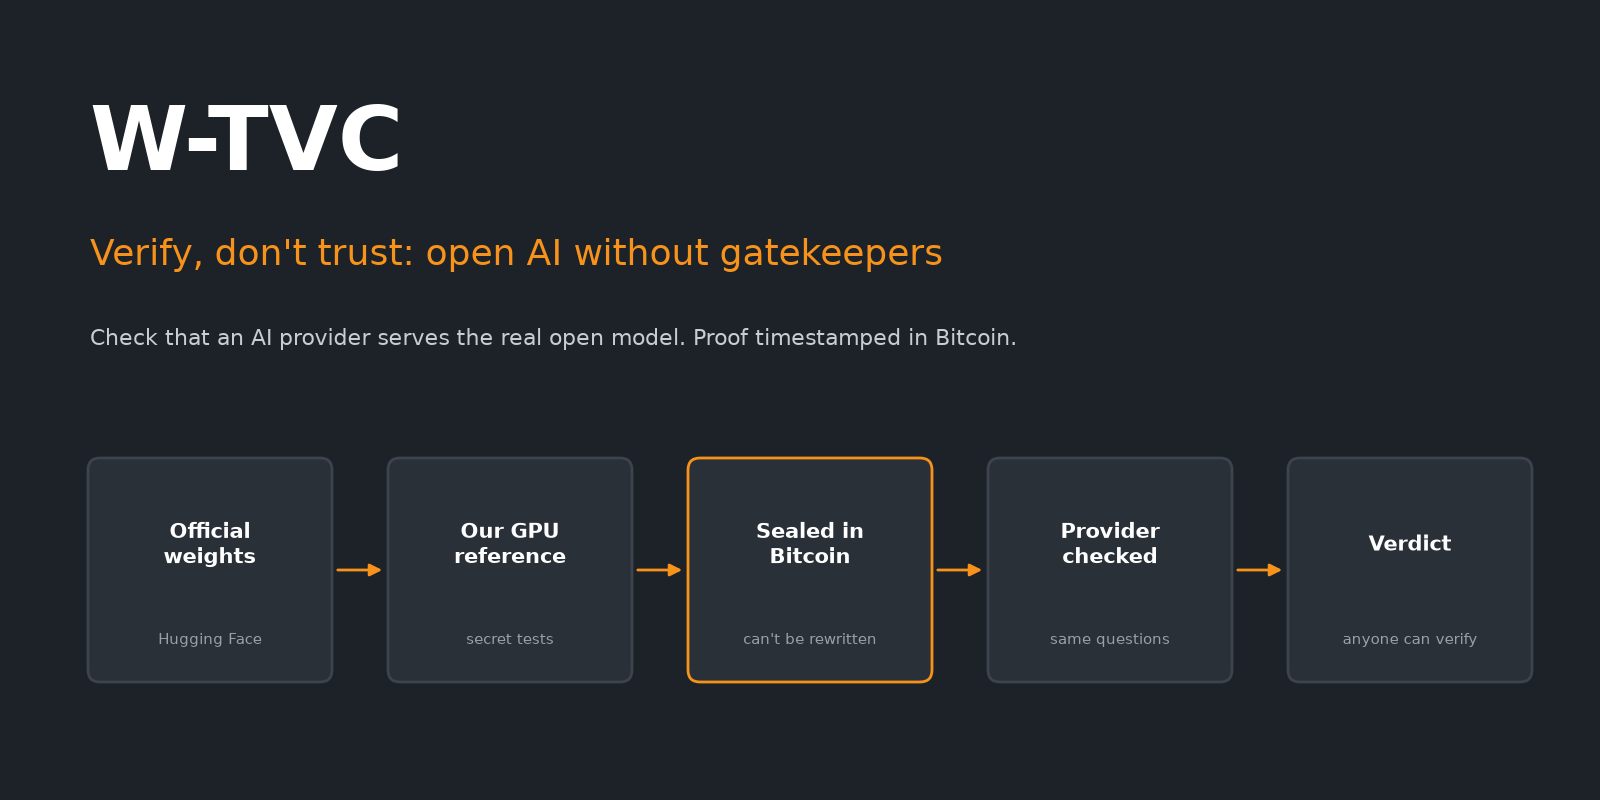
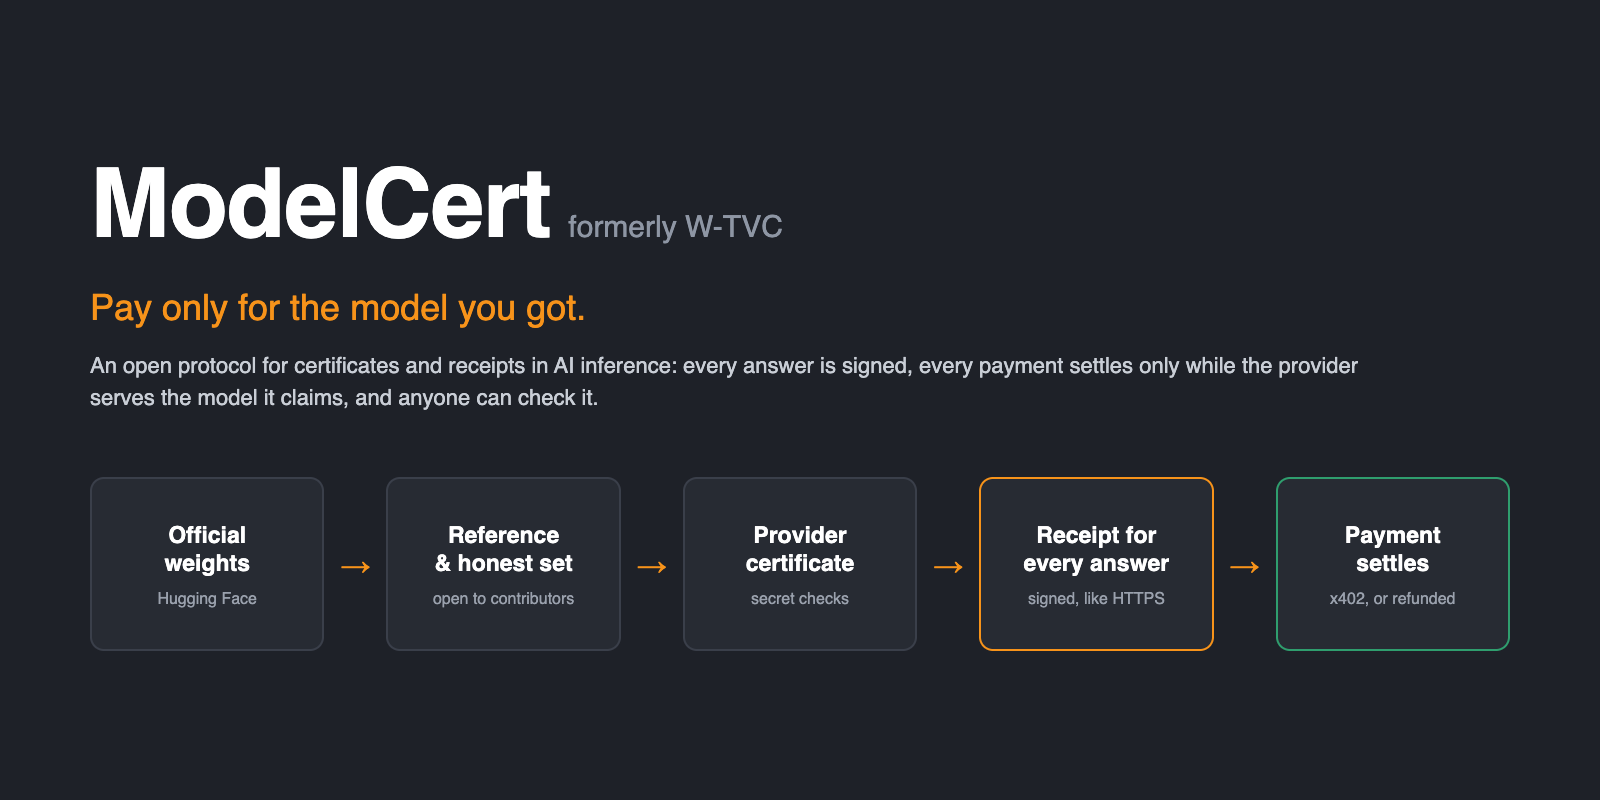
README: ModelCert, certificates, receipts and x402 settlement
The protocol is described as ModelCert: provider certificates, a signed
receipt for every answer, and payments that settle only while the
certificate holds, mapped to HTTPS. New cover, flow diagram and receipt
illustration. Certificates, receipts and settlement are marked as designed,
not built; the code keeps the W-TVC name.

AI: written with Claude Code (Claude Opus 5.5), which wrote effectively all of
this change. Direction and approval from the repository owner.

diff --git a/README.md b/README.md
@@ -1,23 +1,31 @@
-# W-TVC
+# ModelCert
 
-![W-TVC: verify, don't trust](docs/img/cover.png)
+![ModelCert: pay only for the model you got](docs/img/cover.png)
 
-W-TVC is an open protocol for checking that an AI provider serves the open model it sells. A checker runs the official weights, asks secret questions, and compares a provider's answers with the real model's. W-TVC publishes everything needed to trust that verdict without trusting the checker: which weights the reference ran, how it ran them, sealed fingerprints of the secret questions and answers, the honest setups the thresholds come from, and every provider check with its numbers. It's all signed, kept in an append-only ledger and timestamped in Bitcoin.
+ModelCert is an open protocol for paying for AI inference only when you got the model you paid for. It works like HTTPS certificates, for models:
 
-The next step is an **open honest set**. A verdict of "altered" means "outside every honest setup tested", so the more honest setups there are, the fairer the verdict. Anyone with a GPU, including a provider that disputes a verdict, will be able to contribute an honest setup of a model: their engine, GPU and settings. Once someone else reproduces that setup, it widens the threshold for everyone. The design is in [`docs/open-honest-set.md`](docs/open-honest-set.md).
+- **Certificates.** Each provider gets a certificate for each model it serves. It holds while the provider keeps matching the real model on secret test questions mixed into its traffic. A provider that fails is revoked in public.
+- **Receipts.** Every answer comes back with a receipt signed by the gateway. The receipt names the model and the provider that answered, and chains to that provider's certificate.
+- **Settlement.** An agent pays per request over [x402](https://www.x402.org). The payment is held, and it settles only while the provider's certificate holds. If the provider is caught serving anything else, its held payments go back to the buyers.
 
-W-TVC is the protocol behind [authenticated.si](https://authenticated.si) (SPOT).
+Behind every certificate is a public reference: the official weights, sealed test questions, and thresholds set from honest setups of the same model. Anyone can add an honest setup. All of it is signed, kept in an append-only ledger and timestamped in Bitcoin, so anyone can recheck any receipt, certificate or verdict without trusting whoever issued it.
+
+ModelCert was called W-TVC. The code still uses that name: the `tvc` command and the `tvc-core` crate. [authenticated.si](https://authenticated.si) runs SPOT, the first gateway built on it.
 
 **What's real today:**
-- the Qwen2.5-7B reference, its calibrations and two demo verdicts, published here and anchored in Bitcoin blocks 969564 to 969658;
-- GPU references for 14 open models, run in authenticated.si's private harness.
+- the ledger, the reference and calibration documents, and the tools that verify them;
+- the Qwen2.5-7B reference with two demo verdicts, anchored in Bitcoin blocks 969564 to 969658;
+- GPU references for 14 open models in authenticated.si's private harness.
 
-**Not yet:**
-- no real provider has been checked in this ledger;
-- contributions from outside parties aren't built;
-- FP8 detection varies by model.
+**Designed, not built yet:**
+- provider certificates;
+- receipts;
+- x402 settlement;
+- outside contributions to the honest set.
 
-A [10-minute walkthrough](docs/demo-walkthrough.md) runs every check from a fresh clone.
+No real provider has been checked in this ledger.
+
+A [10-minute walkthrough](docs/demo-walkthrough.md) runs every existing check from a fresh clone.
 
 ## Why this matters
 
@@ -27,8 +35,9 @@ Bitcoin removed the need to trust a bank to move money. Anyone can check the rul
 
 A few frontier labs decide which questions their models answer, and they see everything you send. Open models are the way out: anyone can run them, many independent providers host them, and you can switch whenever you like. But an open model is only as trustworthy as whoever serves it. On a marketplace like OpenRouter, a provider can sell you "DeepSeek" and serve a cheaper compressed copy, or a different model, and you can't tell.
 
-W-TVC builds that trust the Bitcoin way:
-- **Verify, don't trust.** Providers are checked against the real model, so you can pick accountable ones.
+ModelCert builds that trust the Bitcoin way:
+- **Pay for proof.** Payments settle only for answers from providers that match the real model.
+- **Verify, don't trust.** Every answer has a receipt you can recheck.
 - **No new gatekeeper.** Every reference, threshold and verdict is signed and published, so anyone can check the checker.
 - **Secret tests, public proof.** The questions stay secret so providers can't game them, but their fingerprints are fixed in public before any provider is tested.
 - **An open definition of "honest".** The setups that decide what counts as normal come from many independent GPUs, not only the checker's.
@@ -46,9 +55,48 @@ The way to catch this from outside is to compare the endpoint with reference ans
 4. Did you change your reference after you saw my output?
 5. My setup is honest but different from yours. Why should your setups define "normal"?
 
-W-TVC answers the first four with things a third party can recompute. The open honest set is the answer to the fifth.
+ModelCert answers the first four with things a third party can recompute. The open honest set is the answer to the fifth. And for buyers the answer arrives with every request: a receipt, and a payment that settles only if the provider holds up.
 
-## How a check works
+## How it works
+
+![How ModelCert works](docs/img/protocol-flow.png)
+
+```mermaid
+sequenceDiagram
+  participant A as Your agent
+  participant G as Gateway (SPOT)
+  participant P as Provider
+  participant L as Public ledger
+  A->>G: request
+  G-->>A: 402 Payment Required, 0.002 USDC
+  A->>G: request + x402 payment
+  Note over G: payment held
+  G->>P: request (provider certificate current)
+  P-->>G: answer
+  G-->>A: answer + signed receipt (model, provider, certificate, hashes)
+  G->>L: receipt batch root
+  alt certificate still holds
+    G->>P: payment settles
+  else provider fails a secret check
+    G->>L: certificate revoked
+    G-->>A: held payments refunded
+  end
+```
+
+The receipt is the per-request piece, and the certificate is what makes it mean something. One answer on its own can't show which model wrote it. A provider's answers to secret test questions, compared with the real model over many requests, can. The receipt ties each paid answer to the certificate that covered it, so a later failed check reaches back to the payments still held.
+
+![A receipt and its chain](docs/img/receipt.png)
+
+| HTTPS | ModelCert |
+| --- | --- |
+| Root certificate | The reference: official weights by file hash, sealed questions, anchored in Bitcoin |
+| Intermediate | The calibration: thresholds from honest setups of the same model |
+| Site certificate | The provider certificate: this provider, this model, passing secret checks |
+| TLS session | The receipt: this request, this answer, this payment |
+| Certificate Transparency log | The ledger: every certificate, revocation and receipt batch, append-only |
+| Revocation | A failed check revokes the certificate, and held payments go back |
+
+## How a provider is checked
 
 ```mermaid
 flowchart LR
@@ -61,7 +109,7 @@ flowchart LR
   MA --> LINE["Threshold<br/>95% of honest mini-audits below"]
   MA --> VERDICT["Verdict<br/>altered if 90% or more of the<br/>provider's mini-audits are past it"]
   LINE --> VERDICT
-  LINE & VERDICT --> LED[("W-TVC ledger<br/>signed, timestamped in Bitcoin")]
+  LINE & VERDICT --> LED[("Public ledger<br/>signed, timestamped in Bitcoin")]
 ```
 
 - **The reference** decides what everything is measured against.
@@ -97,7 +145,7 @@ Today one party, authenticated.si, runs every honest setup. Contributions from a
 
 A flagged provider follows the same path. It submits its exact serving setup, and if that reproduces as honest, the threshold moves for everyone. Rewards for contributors come later, once admission has a track record. Details, threats and the document formats to add: [`docs/open-honest-set.md`](docs/open-honest-set.md).
 
-## What W-TVC publishes
+## What the ledger publishes
 
 A reference is a set of signed documents, each naming the ones it builds on by SHA-256. Protocol v2 adds the documents a verdict is judged by.
 
@@ -266,22 +314,25 @@ The upgrade from "pending" to "in a block" takes a few hours. `tvc verify-anchor
 
 Confidential-inference providers run models inside Intel TDX or AMD SEV enclaves and publish attestations. [awesome-private-inference](https://github.com/amiller/awesome-private-inference) re-checks them daily, and its findings show the weak point is "which model". For Chutes, "`model_name`/`revision` are never bound to the quote". For RedPill/Phala, model-weight provenance is listed as unknown.
 
-W-TVC isn't an enclave and doesn't replace one. It gives "which weights" a signed, provider-independent name an attestation could cite, and it applies the same discipline to the checker. Confidential GPUs are also how Phase 3 of the open honest set keeps the secret questions secret on a contributor's machine.
+ModelCert isn't an enclave and doesn't replace one. It gives "which weights" a signed, provider-independent name an attestation could cite, and it applies the same discipline to the checker. Confidential GPUs are also how Phase 3 of the open honest set keeps the secret questions secret on a contributor's machine.
 
 ## What's next
 
 Roughly in order:
 
-1. **Open honest set, Phase 1:**
+1. **Certificates, receipts and settlement:**
+    - provider certificates and revocations as ledger documents;
+    - a receipt format signed by the gateway, published in hourly batches as one Merkle root;
+    - x402 payments held until the certificate covering the answer has held for its settlement window;
+    - `tvc verify-receipt`, so anyone can check a receipt and its chain offline.
+2. **Open honest set, Phase 1:**
     - contributor keys;
     - a public battery per model;
     - contribution, replay and admission records;
-    - calibrations that publish every member's statistics;
-    - `tvc calibrate`, so anyone can recompute a threshold.
-2. A witnessed transparency log in place of the hash chain, so many signers share one history ([`docs/transparency-log-plan.md`](docs/transparency-log-plan.md)).
-3. References for the open models OpenRouter resells most, then the same tests against each provider, with audits of real providers in the ledger.
-4. **Open honest set, Phases 2 and 3:** single-use question slices with retirement, then confidential-GPU contributions.
-5. Rewards for admitted setups, paid from audit revenue.
+    - calibrations that publish every member's statistics, and `tvc calibrate`.
+3. A witnessed transparency log in place of the hash chain, so many signers share one history ([`docs/transparency-log-plan.md`](docs/transparency-log-plan.md)).
+4. References for the open models OpenRouter resells most, then certificates for the providers that serve them.
+5. **Open honest set, Phases 2 and 3:** single-use question slices, then confidential-GPU contributions, then rewards for contributors.
 
 ## Commands
 
